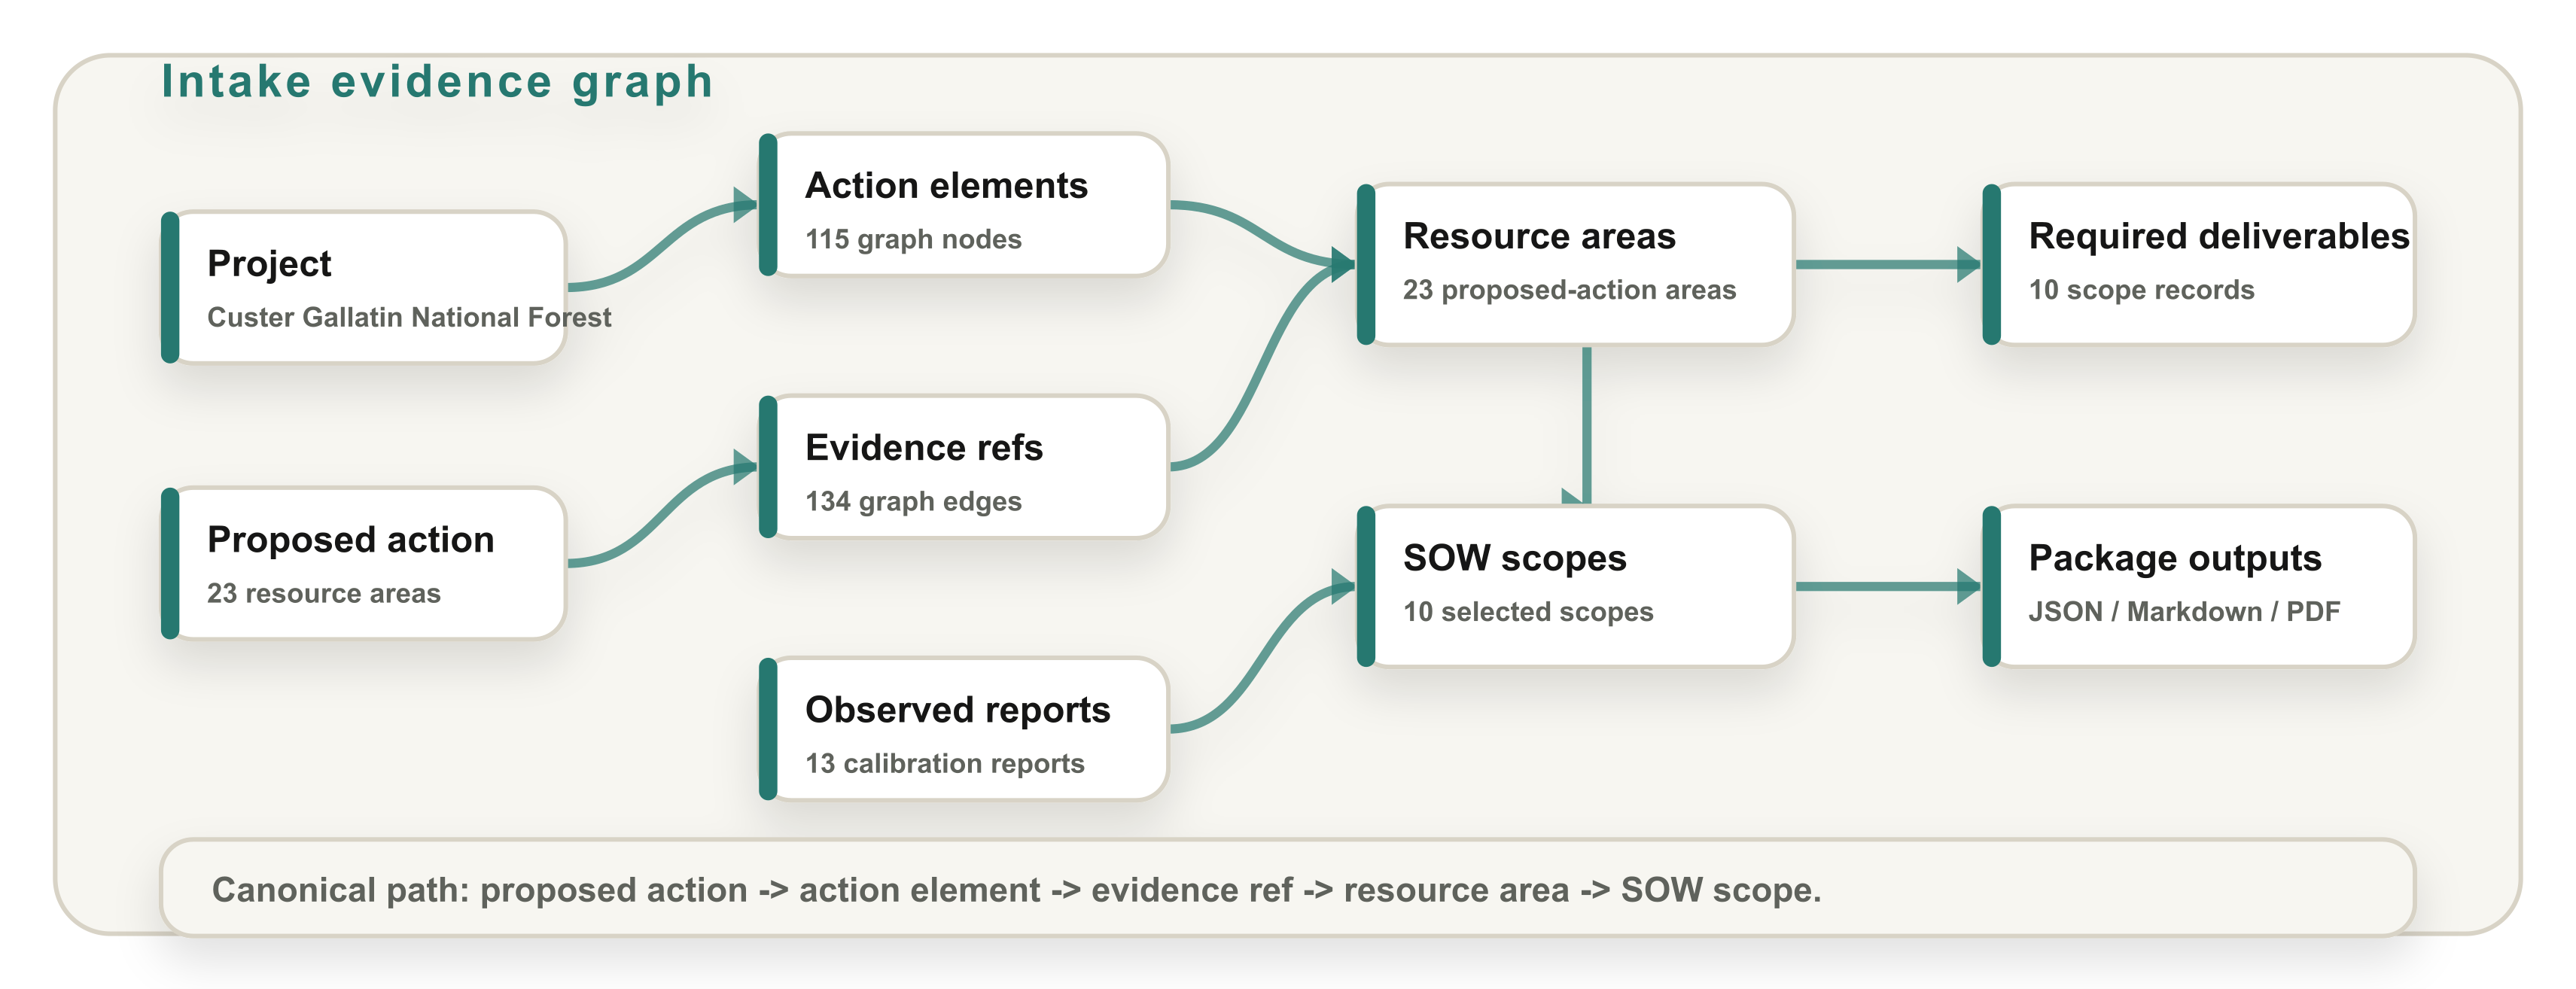
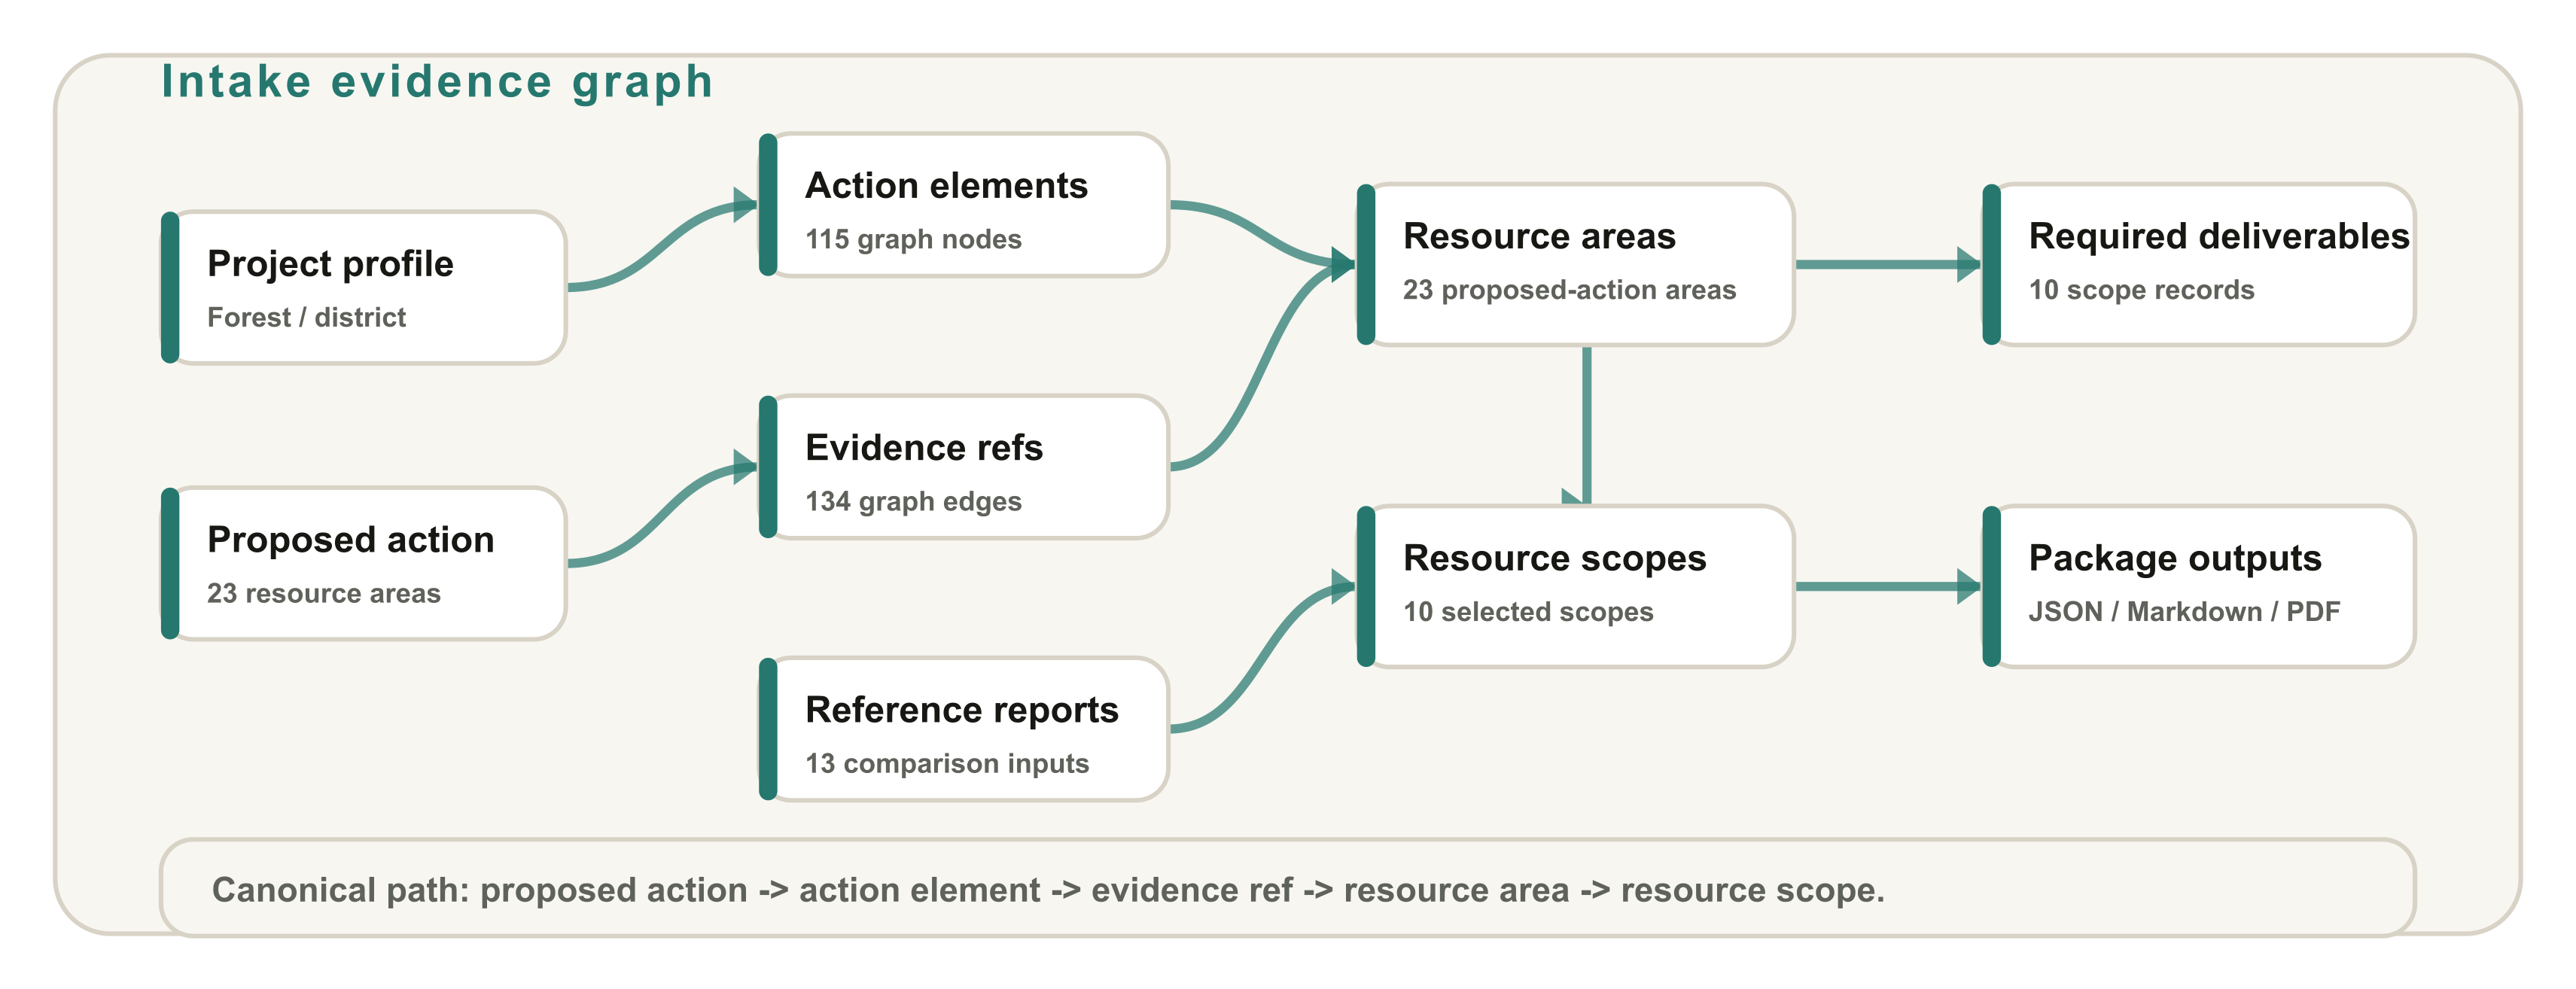
Polish scope-of-work capabilities brief

diff --git a/docs/capabilities/project_sow_capabilities_brief.html b/docs/capabilities/project_sow_capabilities_brief.html
@@ -2,7 +2,7 @@
 <html lang="en">
 <head>
   <meta charset="utf-8" />
-  <title>Project SOW Capabilities Brief</title>
+  <title>Project Scope of Work Capabilities Brief</title>
   <style>
     @page { size: Letter; margin: 0; }
     * { box-sizing: border-box; }
@@ -11,6 +11,7 @@
       color: #171713;
       background: #f7f6f1;
       font-family: Inter, ui-sans-serif, system-ui, -apple-system, BlinkMacSystemFont, "Segoe UI", sans-serif;
+      -webkit-font-smoothing: antialiased;
     }
     .page {
       width: 8.5in;
@@ -38,11 +39,13 @@
       font-size: 30pt;
       line-height: 0.98;
       letter-spacing: 0;
+      text-wrap: balance;
     }
     h2 {
       font-size: 19pt;
       line-height: 1.05;
       letter-spacing: 0;
+      text-wrap: balance;
     }
     h3 {
       font-size: 12pt;
@@ -53,6 +56,7 @@
       font-size: 9.7pt;
       line-height: 1.36;
       color: #4f554e;
+      text-wrap: pretty;
     }
     .lede {
       margin-top: 0.12in;
@@ -93,6 +97,7 @@
       font-size: 18pt;
       line-height: 1;
       color: #171713;
+      font-variant-numeric: tabular-nums;
     }
     .metric span {
       display: block;
@@ -106,19 +111,17 @@
       width: 100%;
       border: 1px solid #d8d3c6;
       border-radius: 10px;
-      box-shadow: 0 12px 30px rgba(24,28,26,0.12);
     }
     .graph-figure {
       width: 100%;
-      height: 4.25in;
+      height: 3.0in;
       object-fit: contain;
       object-position: center;
       border: 1px solid #d8d3c6;
       border-radius: 10px;
       background: #fff;
-      box-shadow: 0 12px 30px rgba(24,28,26,0.12);
     }
-    .graph-figure.compact { height: 4.05in; }
+    .graph-figure.compact { height: 3.0in; }
     .caption {
       margin-top: 0.06in;
       color: #5f625b;
@@ -185,31 +188,31 @@
   <section class="page">
     <header>
       <div class="kicker">Standing Framework / Capabilities Brief</div>
-      <h1>Scope Ready NEPA Work Packages</h1>
-      <p class="lede">We turn a proposed-action intake into a contract-ready Project SOW requirements package before a complete EA review package exists. The workflow selects resource scopes, builds an intake evidence graph, renders required and optional deliverables, exposes reviewer adjudication, and hands accepted packages forward into EA assembly planning without creating legal conclusions or final agency decisions.</p>
-      <p class="metric-context">Current operational proof: 3 proving intakes, 0 failed cases, 0 system misses, and 0 intake omissions.</p>
+      <h1>NEPA Scope of Work System</h1>
+      <p class="lede">This system turns a proposed-action intake into a contract-ready scope of work requirements package before a complete EA review package exists. It selects resource workstreams, builds an intake evidence graph, renders required and optional deliverables, exposes reviewer adjudication, and hands accepted packages forward into EA assembly planning.</p>
+      <p class="metric-context">Operational proof is grounded in current gate evidence and tracked proving intakes.</p>
       <div class="metric-grid">
-        <div class="metric"><strong>10</strong><span>resource SOW templates</span></div>
-        <div class="metric"><strong>10</strong><span>East Crazies selected scopes</span></div>
-        <div class="metric"><strong>23</strong><span>proposed-action resource areas</span></div>
+        <div class="metric"><strong>10</strong><span>resource work templates</span></div>
+        <div class="metric"><strong>3</strong><span>tracked proving intakes</span></div>
+        <div class="metric"><strong>0</strong><span>system misses in gate</span></div>
         <div class="metric"><strong>27</strong><span>EA handoff checklist slots</span></div>
       </div>
     </header>
     <main>
-      <img class="hero-img" src="assets/project_sow_delivery_stack.svg" alt="Project SOW delivery process from intake to EA package handoff" />
+      <img class="hero-img" src="assets/project_sow_delivery_stack.svg" alt="Project scope of work delivery process from intake to EA package handoff" />
       <div class="grid-2" style="margin-top:0.15in">
         <div class="callout">
           <strong>Planning model</strong>
-          <p>The system reads structured proposed-action evidence and turns it into resource-specific SOW work, data needs, deliverables, assumptions, dependencies, acceptance criteria, reviewer roles, review timing, and signoff fields.</p>
+          <p>The system reads structured proposed-action evidence and turns it into resource-specific work tasks, data needs, deliverables, assumptions, dependencies, acceptance criteria, reviewer roles, review timing, and signoff fields.</p>
         </div>
         <div class="callout">
-          <strong>Boundary model</strong>
-          <p>The output is a planning and contracting support artifact. It does not decide applicability, generate compliance findings, provide legal advice, prove legal sufficiency, or make a final agency decision.</p>
+          <strong>Review boundary</strong>
+          <p>The package is upstream planning support: resource selection, evidence paths, and contract fields stay separate from compliance and legal conclusions.</p>
         </div>
       </div>
     </main>
     <footer class="footer">
-      <span>Generated from current Project SOW operational evidence.</span>
+      <span>Generated from current scope-of-work operational evidence.</span>
       <span>Command: <strong>project-sow-operational-gate</strong>; JSON is canonical.</span>
     </footer>
   </section>
@@ -217,20 +220,20 @@
   <section class="page">
     <header>
       <div class="kicker">Capability 1 / Intake Evidence Graph</div>
-      <h2>From proposed action to SOW scope</h2>
-      <p class="lede">The package records how each proposed-action element and evidence reference triggers a resource area and how that resource area resolves to a SOW scope. That keeps scope selection inspectable before specialist work is contracted.</p>
+      <h2>From proposed action to resource scope</h2>
+      <p class="lede">The package records how each proposed-action element and evidence reference triggers a resource area and how that resource area resolves to a resource scope. That keeps scope selection inspectable before specialist work is contracted.</p>
     </header>
     <main>
-      <img class="graph-figure" src="assets/project_sow_intake_graph_service_view.png" alt="Intake evidence graph from proposed action to SOW scope" />
-      <p class="caption">East Crazies evidence graph: 115 nodes and 134 edges connect project, proposed action, action elements, evidence refs, resource areas, SOW scopes, required deliverables, and observed reports.</p>
+      <img class="graph-figure" src="assets/project_sow_intake_graph_service_view.png" alt="Intake evidence graph from proposed action to resource scope" />
+      <p class="caption">Representative intake graph: 115 nodes and 134 edges connect project, proposed action, action elements, evidence refs, resource areas, selected resource scopes, required deliverables, and reference reports.</p>
       <div class="grid-2" style="margin-top:0.14in">
         <div class="callout">
           <strong>Defensibility shown</strong>
-          <p>Every proposed-action-derived resource area is expected to keep the planning path: proposed action -> action element -> evidence ref -> resource area -> SOW scope.</p>
+          <p>Every proposed-action-derived resource area is expected to keep the planning path: proposed action -> action element -> evidence ref -> resource area -> resource scope.</p>
         </div>
         <div class="callout">
           <strong>Review signal</strong>
-          <p>Validation fails closed on unsupported resource areas, dangling graph edges, observed reports without proposed-action support, missing SOW content, and missing reviewer-facing package sections.</p>
+          <p>Validation fails closed on unsupported resource areas, dangling graph edges, observed reports without proposed-action support, missing work content, and missing reviewer-facing package sections.</p>
         </div>
       </div>
     </main>
@@ -244,11 +247,11 @@
     <header>
       <div class="kicker">Capability 2 / Contract Ready Scopes</div>
       <h2>Turn resource screening into work statements</h2>
-      <p class="lede">Resource scopes are not just labels. Each selected scope carries SOW tasks, data needs, required and optional deliverables, defensibility checks, assumptions, dependencies, acceptance criteria, reviewer role, review timing, and signoff fields.</p>
+      <p class="lede">Resource scopes are not just labels. Each selected scope carries work tasks, data needs, required and optional deliverables, defensibility checks, assumptions, dependencies, acceptance criteria, reviewer role, review timing, and signoff fields.</p>
     </header>
     <main>
-      <img class="graph-figure compact" src="assets/project_sow_contract_scope_service_view.png" alt="Contract-ready SOW scopes and deliverables" />
-      <p class="caption">Current scope library: 10 resource SOW templates. East Crazies selects 10 scopes, all with contract fields, required deliverables, optional deliverables, and rendering checks passed.</p>
+      <img class="graph-figure compact" src="assets/project_sow_contract_scope_service_view.png" alt="Contract-ready resource scopes and deliverables" />
+      <p class="caption">Current scope library: 10 resource work templates. A representative package selects 10 scopes, all with contract fields, required deliverables, optional deliverables, and rendering checks passed.</p>
       <div class="grid-2" style="margin-top:0.14in">
         <div class="callout">
           <strong>What is inspectable</strong>
@@ -262,7 +265,7 @@
     </main>
     <footer class="footer">
       <span>Contract behavior: 30 required and 30 optional deliverables in the current scope library rendering.</span>
-      <span>Calibration behavior: 13 observed East Crazies reports are calibration evidence, not precedent.</span>
+      <span>Rendering behavior: JSON remains canonical; Markdown and PDF are derived views.</span>
     </footer>
   </section>
 
@@ -274,12 +277,12 @@
     </header>
     <main>
       <img class="graph-figure compact" src="assets/project_sow_handoff_service_view.png" alt="Operational gate and downstream EA package handoff" />
-      <p class="caption">Operational gate proof: 13/13 gate checks passed. The East Crazies handoff emits 27 future EA assembly slots across source collection, specialist reports, public involvement, consultation, Forest Plan consistency, and decision-record support.</p>
+      <p class="caption">Operational gate proof: 13/13 gate checks passed. The handoff pattern emits 27 future EA assembly slots across source collection, specialist reports, public involvement, consultation, Forest Plan consistency, and decision-record support.</p>
       <div class="grid-2" style="margin-top:0.14in">
         <div class="scene-list">
           <div class="scene"><strong>Intake validate</strong><span>No-write validation for templates and proving intakes.</span></div>
           <div class="scene"><strong>Draft intake</strong><span>Plain-text proposed actions become unreviewed drafts for confirmation.</span></div>
-          <div class="scene"><strong>Package render</strong><span>Canonical JSON plus Markdown/PDF SOW package renderings.</span></div>
+          <div class="scene"><strong>Package render</strong><span>Canonical JSON plus Markdown/PDF scope-of-work package renderings.</span></div>
           <div class="scene"><strong>Adjudication</strong><span>Reviewer worklist and replay path for planning decisions.</span></div>
           <div class="scene"><strong>Operational gate</strong><span>Eval, rendering smoke, docs/schema checks, and output hashes.</span></div>
           <div class="scene"><strong>EA handoff</strong><span>Future assembly slots without claiming artifacts exist now.</span></div>
@@ -289,17 +292,17 @@
             <strong>What this service delivers</strong>
             <ul>
               <li>Structured proposed-action intake and validation before package generation.</li>
-              <li>Resource SOW requirements package with contract-ready scope records.</li>
-              <li>Reviewer adjudication for calibration gaps and optional deliverable decisions.</li>
+              <li>Resource scope-of-work requirements package with contract-ready scope records.</li>
+              <li>Reviewer adjudication for unresolved planning choices and optional deliverable decisions.</li>
               <li>Downstream EA assembly checklist tied to the accepted package JSON.</li>
             </ul>
           </div>
-          <p class="source-note" style="margin-top:0.08in">Current boundary: the Project SOW lane scopes work needed to prepare a defensible EA package. It does not run downloader, extraction, applicability, generated rule-pack, compliance review, phase-eval, legal sufficiency, or final agency decision workflows.</p>
+          <p class="source-note" style="margin-top:0.08in">Current boundary: this lane scopes work needed to prepare a defensible EA package. Handoff slots are future expectations, not evidence that future artifacts already exist.</p>
         </div>
       </div>
     </main>
     <footer class="footer">
-      <span>Deliverable: graph-backed Project SOW planning package plus operational-readiness evidence.</span>
+      <span>Deliverable: graph-backed scope-of-work planning package plus operational-readiness evidence.</span>
       <span>Boundary: broader CI adoption remains a separate explicit milestone.</span>
     </footer>
   </section>

diff --git a/docs/SESSION_HANDOFF.md b/docs/SESSION_HANDOFF.md
@@ -2,22 +2,25 @@
 
 Date: 2026-05-07
 
-## Project SOW Capabilities Brief
+## Scope-of-Work Capabilities Brief
 
-A generated 4-page Project SOW service capabilities brief now lives at
+A generated 4-page system-level scope-of-work capabilities brief now lives at
 `docs/capabilities/project_sow_capabilities_brief.pdf`, with matching HTML at
 `docs/capabilities/project_sow_capabilities_brief.html` and generated figures under
 `docs/capabilities/assets/`. It mirrors the style and page structure of
-`docs/capabilities/nepa_3d_capabilities_brief.pdf` while focusing on producing scopes of work from
-structured proposed-action intake.
+`docs/capabilities/nepa_3d_capabilities_brief.pdf` while focusing on the system design and
+capabilities for producing scopes of work from structured proposed-action intake.
 
 The brief was generated by `tools/build_project_sow_capabilities_brief.mjs` after a fresh local
-operational gate run to `/tmp/project-sow-capabilities-gate`. Current evidence used in the brief:
-`3` proving intakes passed, `0` failed cases, `0` system misses, `0` intake omissions, East Crazies
-selected `10` resource scopes across `23` proposed-action resource areas with a `115`-node and
-`134`-edge intake evidence graph, and the downstream EA handoff emitted `27` future assembly slots.
+operational gate run to `/tmp/project-sow-capabilities-gate`. The brief is intentionally general:
+it refers to proving intakes, a representative intake graph, the scope library, the operational
+gate, and the handoff pattern rather than centering any one project example. Current evidence used
+in the brief: `3` proving intakes passed, `0` failed cases, `0` system misses, `0` intake
+omissions, a representative package selected `10` resource scopes across `23` proposed-action
+resource areas with a `115`-node and `134`-edge intake evidence graph, and the downstream EA handoff
+pattern emitted `27` future assembly slots.
 
-Boundary: this is a Project SOW planning and contracting support brief. It does not change package
+Boundary: this is a planning and contracting support brief. It does not change package
 generation code, generated source-library policy, applicability decisions, compliance findings,
 legal advice, legal sufficiency, or final agency decision status.
 

diff --git a/docs/CURRENT_SYSTEM_STATE.md b/docs/CURRENT_SYSTEM_STATE.md
@@ -555,15 +555,15 @@ The milestone closeout alignment pass adds
 their acceptance criteria and verification evidence; the operational gate now checks that matrix as
 part of the durable-doc closeout set.
 
-A Project SOW service capabilities brief is generated at
+A scope-of-work service capabilities brief is generated at
 `docs/capabilities/project_sow_capabilities_brief.pdf` with matching HTML at
 `docs/capabilities/project_sow_capabilities_brief.html`. The generator
 `tools/build_project_sow_capabilities_brief.mjs` mirrors the NEPA 3D capabilities-brief style and
-uses current Project SOW operational evidence when available. The brief explains the service lane
+uses current operational evidence when available. The brief explains the service lane
 for producing scopes of work: proposed-action intake, intake evidence graph, contract-ready
-resource SOW records, reviewer adjudication, operational-readiness gate, and downstream EA package
-assembly handoff. It is four pages so the SOW pipeline, graph, contract scope library, and handoff
-figures remain legible at service-brief scale.
+resource work records, reviewer adjudication, operational-readiness gate, and downstream EA package
+assembly handoff. It is four pages so the system pipeline, graph, contract scope library, and
+handoff figures remain legible at service-brief scale.
 
 An earlier requirements-package Sequence 5 CLI smoke run for the East Crazies intake selected `10`
 SOW scopes, found `23` proposed-action resource areas, emitted a `115`-node and `134`-edge intake

diff --git a/README.md b/README.md
@@ -178,7 +178,7 @@ EA handoff smoke, and tracked docs/schema checks before writing an operational r
 The gate also emits a machine-readable closeout contract and hashes the gate, eval, and handoff
 smoke outputs so release evidence can be audited without staging ignored generated artifacts. The
 tracked acceptance matrix is
-`docs/PROJECT_SOW_OPERATIONALIZATION_ACCEPTANCE_MATRIX.md`. A generated 4-page Project SOW
+`docs/PROJECT_SOW_OPERATIONALIZATION_ACCEPTANCE_MATRIX.md`. A generated 4-page scope-of-work
 capabilities brief now lives at `docs/capabilities/project_sow_capabilities_brief.pdf` with a
 matching HTML source and generated figures under `docs/capabilities/assets/`; it frames the
 proposed-action intake, intake evidence graph, contract-ready resource scopes, reviewer
@@ -280,7 +280,7 @@ Generated outputs are written under `source_library/` and ignored by git:
   - `docs/capabilities/assets/graph_evidence_trace_service_view.png`
   - `docs/capabilities/assets/graph_readiness_service_view.png`
   - `tools/build_nepa_3d_capabilities_brief.mjs`
-- Project SOW service capabilities brief:
+- Scope-of-work service capabilities brief:
   - `docs/capabilities/project_sow_capabilities_brief.pdf`
   - `docs/capabilities/project_sow_capabilities_brief.html`
   - `docs/capabilities/assets/project_sow_delivery_stack.svg`